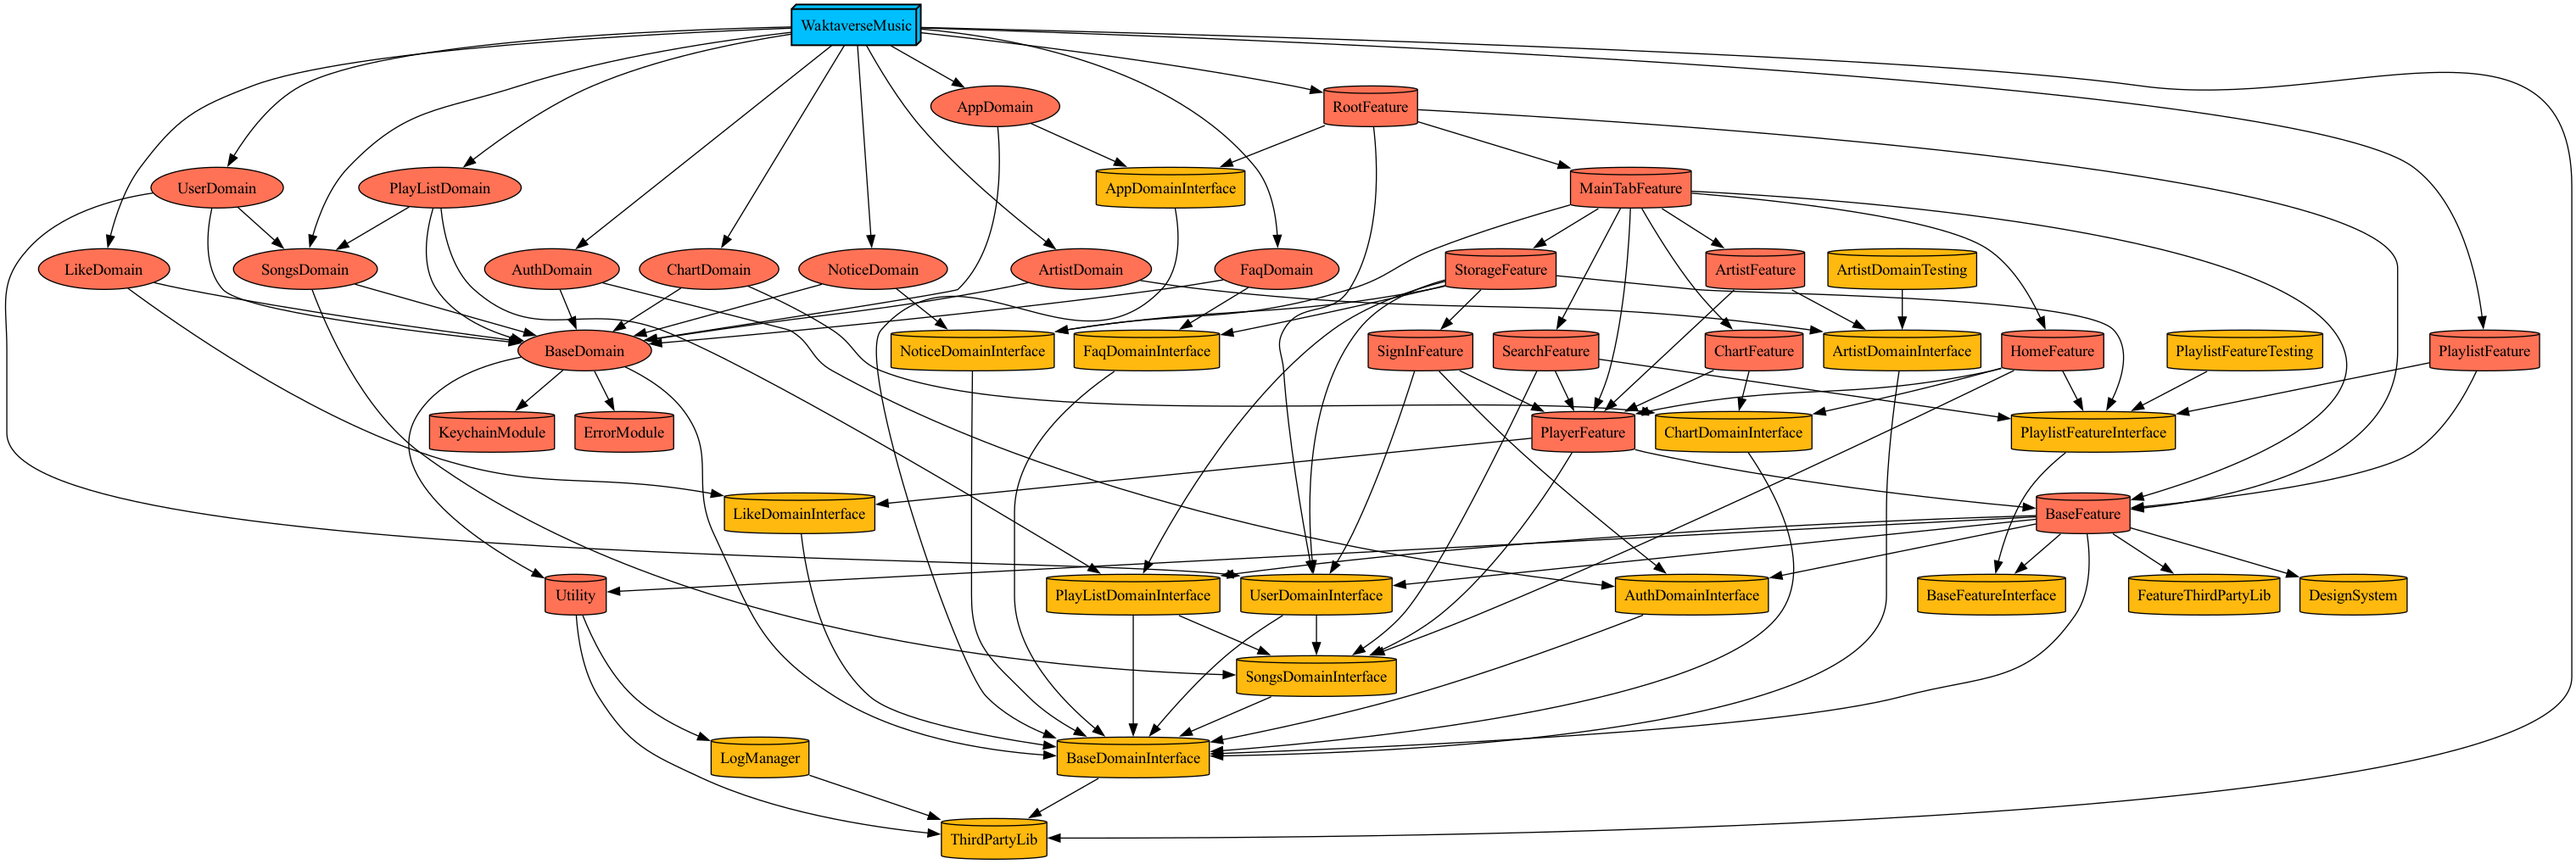
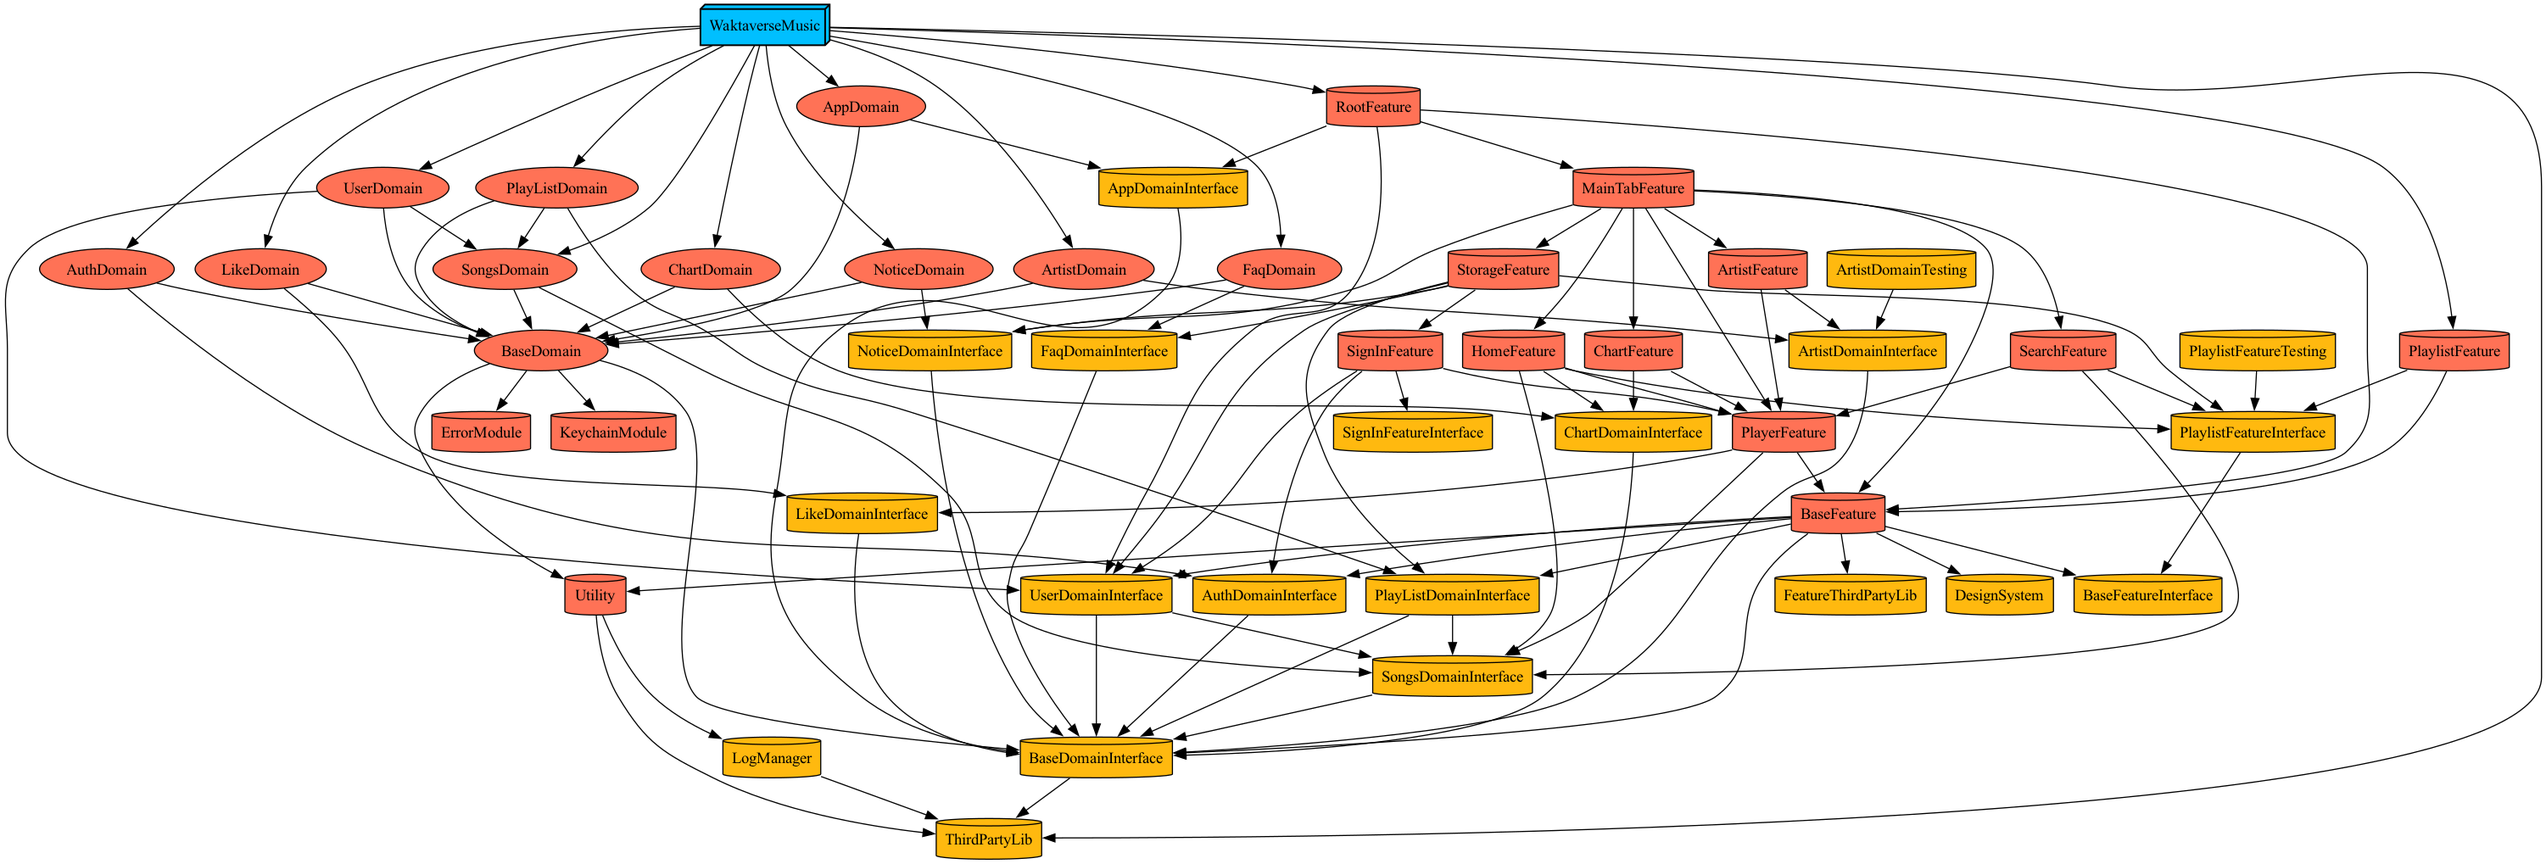
:recycle: :: SignInFeature 인터페이스 생성

diff --git a/Projects/Features/SignInFeature/Project.swift b/Projects/Features/SignInFeature/Project.swift
@@ -5,6 +5,7 @@ import ProjectDescriptionHelpers
 let project = Project.module(
     name: ModulePaths.Feature.SignInFeature.rawValue,
     targets: [
+        .interface(module: .feature(.SignInFeature)),
         .implements(
             module: .feature(.SignInFeature),
             product: .staticFramework,
@@ -13,7 +14,8 @@ let project = Project.module(
                 dependencies: [
                     .feature(target: .PlayerFeature),
                     .domain(target: .AuthDomain, type: .interface),
-                    .domain(target: .UserDomain, type: .interface)
+                    .domain(target: .UserDomain, type: .interface),
+                    .feature(target: .SignInFeature, type: .interface)
                 ]
             )
         )

diff --git a/Projects/Features/SignInFeature/Sources/ViewControllers/LoginViewController.swift b/Projects/Features/SignInFeature/Sources/ViewControllers/LoginViewController.swift
@@ -1,11 +1,3 @@
-//
-//  BeforeLoginStorageViewController.swift
-//  StorageFeature
-//
-//  Created by yongbeomkwak on 2023/01/24.
-//  Copyright © 2023 yongbeomkwak. All rights reserved.
-//
-
 import AuthenticationServices
 import BaseFeature
 import DesignSystem

diff --git a/Projects/Features/SignInFeature/interface/tmp.swift b/Projects/Features/SignInFeature/interface/tmp.swift
@@ -1,0 +1,1 @@
+// Hello
